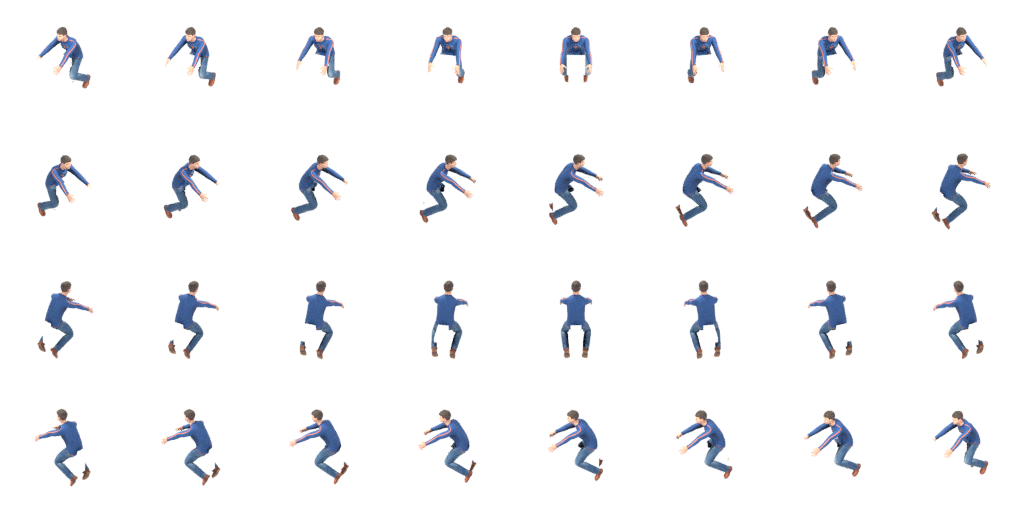
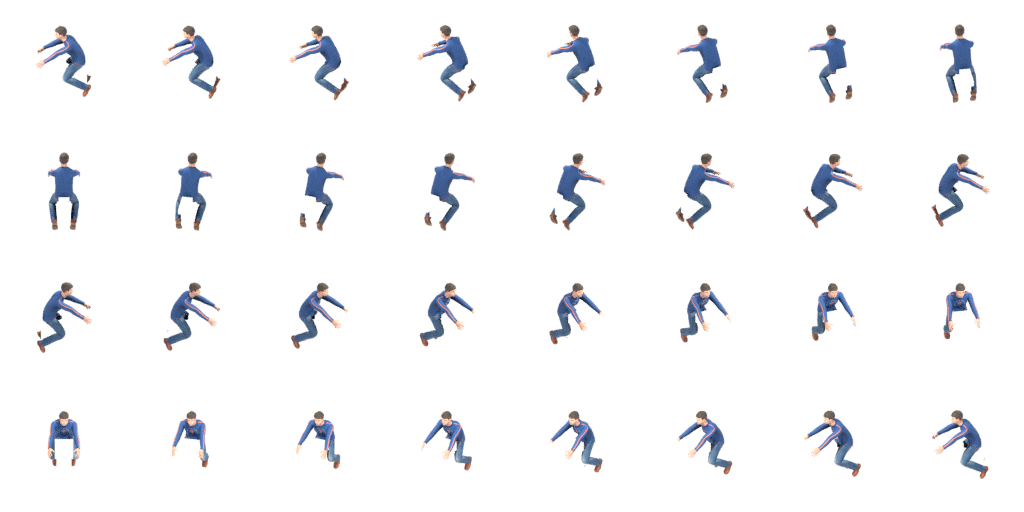
Teste 3D: pernas fechadas ao andar e piloto casado com os 32 ângulos da moto
Claude-Session: https://claude.ai/code/session_01MeVKMuGC7xtnWKV7Lhja9Y

diff --git a/teste-3d/mh2.py b/teste-3d/mh2.py
@@ -70,9 +70,11 @@ def bracos_baixo(r,swing=0,cot=12,abre=.06):
         sw=swing*(1 if sd=='l' else -1);a=math.radians(sw);c=math.radians(cot)
         aim(r,'upperarm_'+sd,(sx*abre,-math.sin(a),-math.cos(a)))
         aim(r,'lowerarm_'+sd,(sx*abre*.6,-math.sin(a+c),-math.cos(a+c)))
+def fecha(r,g=4.5):
+    rot(r,'thigh_l',(0,1,0),g);rot(r,'thigh_r',(0,1,0),-g);rot(r,'foot_l',(0,1,0),-g*.6);rot(r,'foot_r',(0,1,0),g*.6)
 def andar(r,t):
-    """caminhada suave: passada curta, joelho dobra só quando a perna vai à frente, quadril sobe/desce e gira de leve"""
-    zera(r);ph=t*2*math.pi;s_=math.sin(ph);c_=math.cos(ph)
+    """caminhada suave"""
+    zera(r);fecha(r);ph=t*2*math.pi;s_=math.sin(ph);c_=math.cos(ph)
     for sd,sg in (('l',1),('r',-1)):
         sw=s_*sg;fw=max(0,c_*sg)
         rot(r,'thigh_'+sd,(1,0,0),-19*sw)
@@ -84,7 +86,7 @@ def andar(r,t):
     for sd,sg in (('l',-1),('r',1)):
         sw=11*s_*sg;a=math.radians(sw);c=math.radians(12+7*max(0,s_*sg));sx=1 if sd=='l' else -1
         aim(r,'upperarm_'+sd,(sx*.07,-math.sin(a),-math.cos(a)));aim(r,'lowerarm_'+sd,(sx*.05,-math.sin(a+c),-math.cos(a+c)))
-def parado(r):zera(r);bracos_baixo(r,0,10)
+def parado(r):zera(r);fecha(r);bracos_baixo(r,0,10)
 def sentar(r):
     zera(r)
     for sd in 'lr':rot(r,'thigh_'+sd,(1,0,0),-88);rot(r,'calf_'+sd,(1,0,0),84)
@@ -148,7 +150,7 @@ if SHEET:
     for (l,s_,rx) in (((0,-.18,.88),(.17,.22,.09),0),((0,-.6,.86),(.14,.16,.17),22),((0,-.4,.58),(.13,.3,.18),0),((0,.12,.6),(.13,.3,.16),0),((0,.62,.86),(.1,.2,.05),-10)):
         bpy.ops.mesh.primitive_cube_add(location=l,rotation=(math.radians(rx),0,0));o=bpy.context.object;o.scale=s_;o.data.materials.append(hold);bb=o.modifiers.new('b','BEVEL');bb.width=.05;bb.segments=3;hob.append(o)
     for k in range(32):
-        camk(45-k*11.25)
+        camk(90+11.25*k)   # casado com a foto k da moto do jogo
         zera(r);arm.location=base;_upd();hip=(arm.matrix_world@arm.pose.bones['thigh_l'].head).z;arm.location.z=base.z+(MSEAT-hip);arm.location.y=base.y+MY;pilotar(r,MG,MP);sh(f'm{k}')
     raise SystemExit
 VID=os.environ.get('VID')
